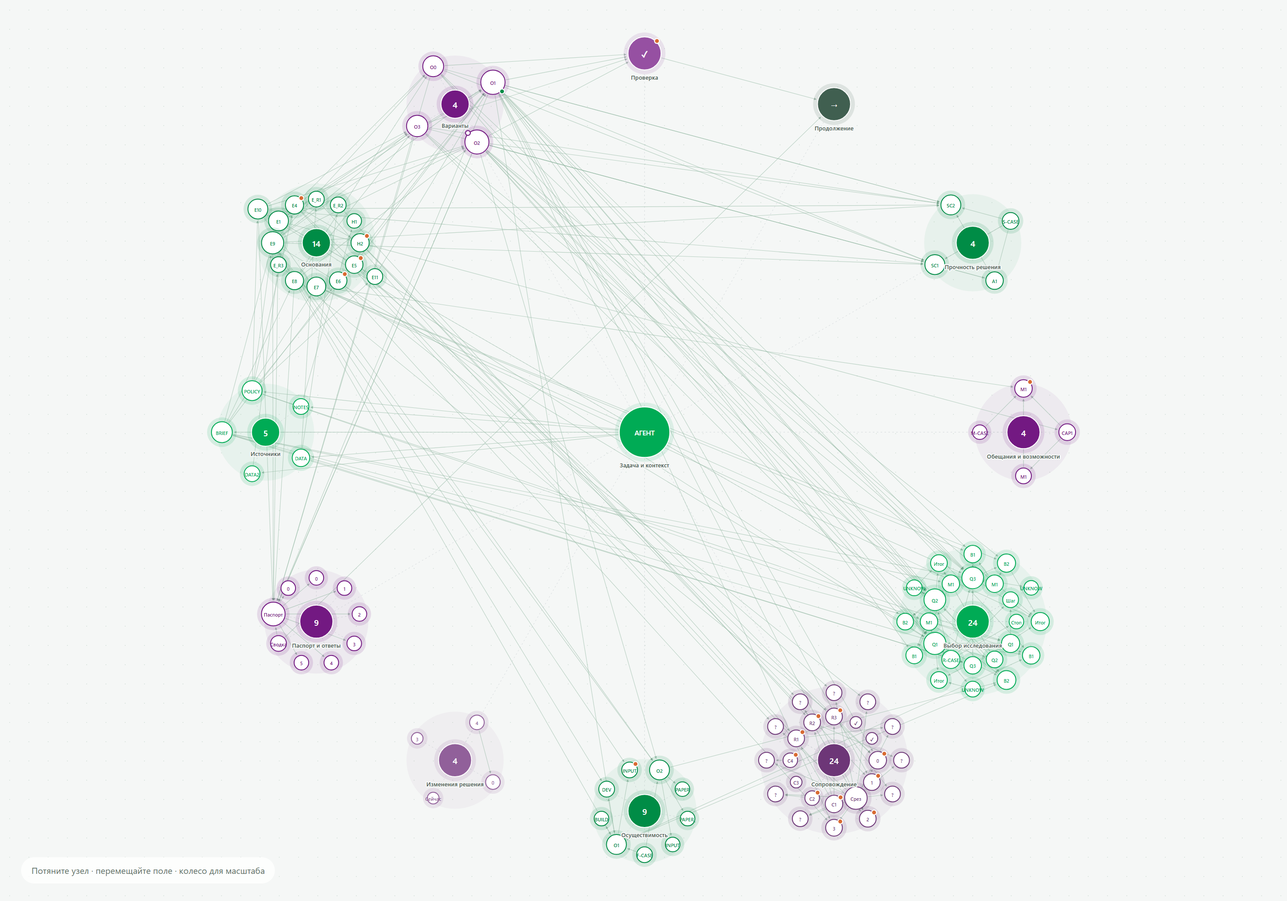
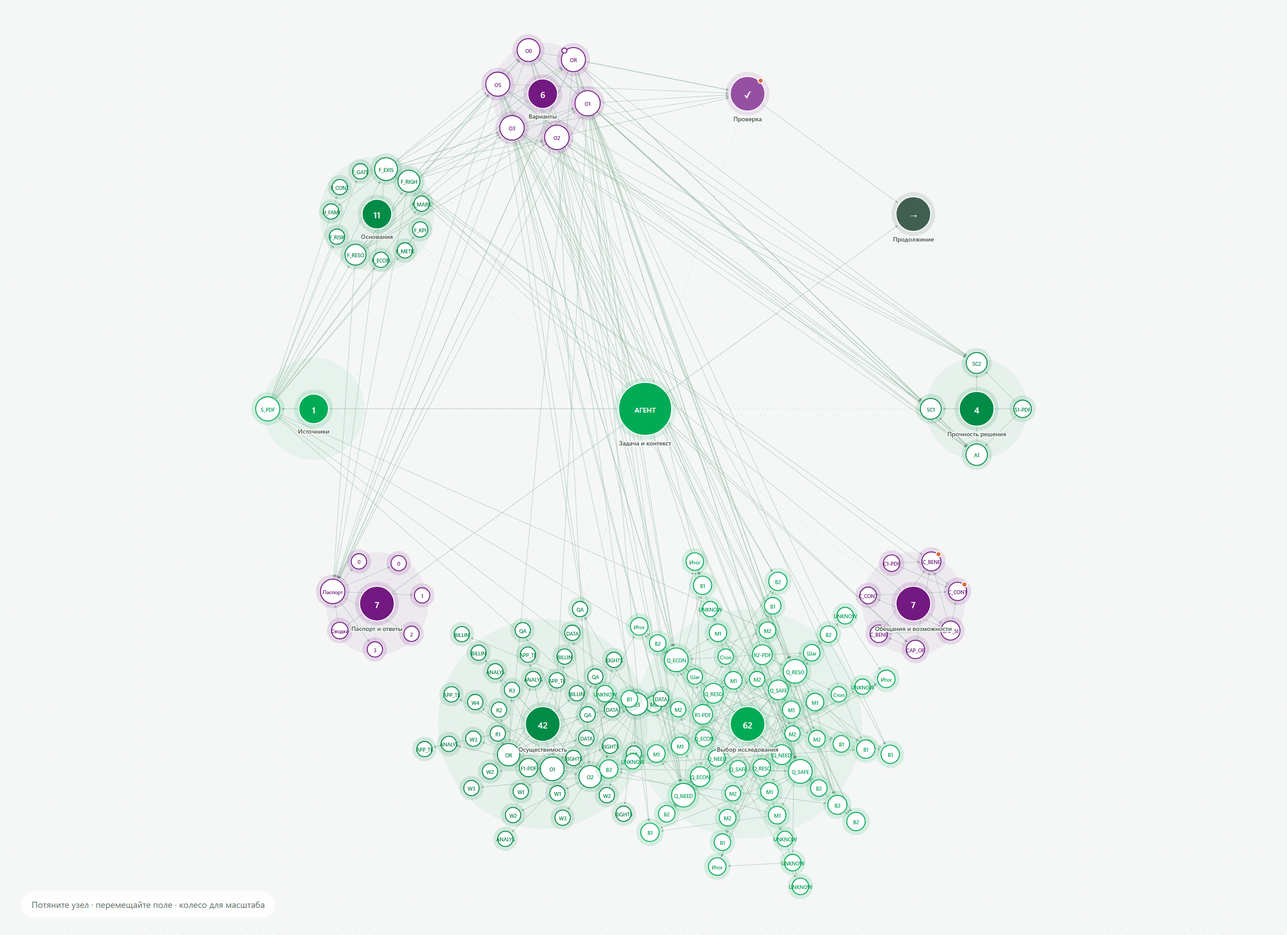
Заменить изображения README снимками Прогона 3 по примеру брифа
Использовать сохранённую карту разбора PDF о вымышленном мобильном операторе: 143 записи, 267 связей, рекомендация исследования OR без записанного выбора владельца. Обновить общий граф и пять широких/мобильных экранов, подписи и метаданные. Скрипт читает явно заданные JSON/HTML, проверяет совпадение версий и не пересчитывает кейс. Исходный PDF, JSON, HTML и чат не добавляются в Git. Проверены 900/390 px, 11 PNG, ссылки, неизменность источников и отказ при несовпадении снимка.

diff --git a/scripts/capture_readme_screenshots.py b/scripts/capture_readme_screenshots.py
@@ -2,7 +2,8 @@
 """Capture real built-in UI screens for README (Edge + websocket-client).
 
 Readers need only the committed PNGs. No DOM text or styles are rewritten.
-Source: the public fictional paired-case-review. Uses an isolated Edge profile.
+Source: an explicitly supplied saved graph and its matching project JSON.
+No PDF, project JSON or complete HTML is copied into publication assets.
 """
 import argparse
 import base64
@@ -17,19 +18,28 @@ import urllib.request
 import websocket
 
 ROOT = Path(__file__).resolve().parents[1]
-CASE = ROOT / 'examples/paired-case-review/project.json'
-DEMO = ROOT / 'projects/readme-screenshots/work-graph.html'
 OUT = ROOT / 'docs/screenshots/agent'
 
 
 def main():
     parser = argparse.ArgumentParser(description=__doc__)
     parser.add_argument('--full-only', action='store_true', help='capture the entire expanded graph only')
+    parser.add_argument('--graph', type=Path, required=True, help='saved work-graph.html from the run')
+    parser.add_argument('--project', type=Path, required=True, help='matching project.json (read-only)')
+    parser.add_argument('--evidence-id', default='F_RIGHTS', help='recorded support to show')
+    parser.add_argument('--agent-commit', required=True, help='verified agent version used by the saved run')
     args = parser.parse_args()
+    CASE, DEMO = args.project.resolve(), args.graph.resolve()
     OUT.mkdir(parents=True, exist_ok=True)
     before = hashlib.sha256(CASE.read_bytes()).hexdigest()
-    subprocess.run([__import__('sys').executable, '-B', str(ROOT/'scripts/visualize.py'),
-                    str(CASE), '--out', str(DEMO)], check=True, cwd=ROOT)
+    graph_before = hashlib.sha256(DEMO.read_bytes()).hexdigest()
+    saved = json.loads(DEMO.read_text(encoding='utf-8').split('<script id="data" type="application/json">')[1].split('</script>')[0])
+    if saved['state_sha256'] != before:
+        parser.error('Saved graph does not match project.json; refusing mixed snapshots')
+    provenance = {'case_id': CASE.parent.name, 'graph_sha256': graph_before,
+        'case_sha256': before, 'recommended_option': next((p['option_id'] for p in saved['decision_paths'] if p['is_recommended']), None),
+        'evidence_id': args.evidence_id, 'source': 'Прогон 3; Пример брифа.pdf',
+        'agent_commit': args.agent_commit}
     profile = Path(tempfile.mkdtemp(prefix='readme-agent-screens-'))
     url = DEMO.as_uri()
     process = subprocess.Popen([r'C:/Program Files (x86)/Microsoft/Edge/Application/msedge.exe',
@@ -106,7 +116,8 @@ def main():
             assert js("(()=>{const b=svg.getBoundingClientRect();return [...positions.values()].every(p=>{const x=p.x*zoom+panX,y=p.y*zoom+panY;return x-p.r*zoom>=0&&x+p.r*zoom<=b.width&&y-p.r*zoom>=0&&y+p.r*zoom<=b.height})})()")
             shot('00-full-graph.png', '#canvas')
             assert hashlib.sha256(CASE.read_bytes()).hexdigest() == before
-            (OUT/'full-capture.json').write_text(json.dumps({'case': 'examples/paired-case-review/project.json',
+            assert hashlib.sha256(DEMO.read_bytes()).hexdigest() == graph_before
+            (OUT/'full-capture.json').write_text(json.dumps({**provenance,
                 'case_sha256': before, 'all_groups_expanded': True,
                 'nodes': js('data.nodes.length'), 'edges': js('data.edges.length'),
                 'no_nodes_clipped': True, 'screens': results}, ensure_ascii=False, indent=2)+'\n', encoding='utf-8')
@@ -125,19 +136,28 @@ def main():
             shot('01-overview'+suffix+'.png', '#canvas')
             call('Emulation.setDeviceMetricsOverride', {'width': width, 'height': 2600 if mobile else 1600, 'deviceScaleFactor': 1, 'mobile': False})
             time.sleep(.2)
-            js("setAllClusters(true);document.getElementById('path-toggle').click();selectDecisionPath('O2');document.querySelector('.path-support').open=true")
-            js("window.supportRow=[...document.querySelectorAll('.path-support-row')].find(e=>e.querySelector('strong').textContent.includes('E9'));supportRow.id='readme-evidence-row'")
+            js("setAllClusters(true);document.getElementById('path-toggle').click();selectDecisionPath((data.decision_paths.find(p=>p.is_recommended)||data.decision_paths[0]).option_id);document.querySelector('.path-support').open=true")
+            js("window.supportRow=[...document.querySelectorAll('.path-support-row')].find(e=>e.querySelector('strong').textContent.endsWith(' → '+" + json.dumps(args.evidence_id) + "));if(!supportRow)throw Error('Missing requested support');supportRow.id='readme-evidence-row'")
             # ID is only a locator; no record or displayed text is changed.
             shot('02-evidence'+suffix+'.png', '#readme-evidence-row')
             js("document.getElementById('path-toggle').click();clearDecisionPath();document.getElementById('status-toggle').click();chooseStatusCategory('questions');statusPanel.scrollTop=0")
             shot('03-status'+suffix+'.png', '#status-panel')
             js("document.getElementById('status-toggle').click();clearStatusFocus()")
-            js("document.getElementById('scenario-toggle').click();chooseScenarioVersion('S-CASE-REVIEW');selectScenario('SC1');finishNavigation()")
+            js("document.getElementById('scenario-toggle').click();chooseScenarioVersion(data.scenario_views.at(-1).review_id);selectScenario(data.scenario_views.at(-1).scenarios[0].scenario_id);finishNavigation()")
+            table_height = js("document.querySelector('.scenario-table').getBoundingClientRect().height")
+            # Increase only the browser viewport so the genuine scroll panel fits all rows.
+            call('Emulation.setDeviceMetricsOverride', {'width': width,
+                'height': max(2600 if mobile else 1600, int((table_height+100)/.48)+1),
+                'deviceScaleFactor': 1, 'mobile': False})
+            time.sleep(.2)
             shot('04-scenarios'+suffix+'.png', '.scenario-table')
-            js("document.getElementById('scenario-toggle').click();clearScenarioMode();document.getElementById('history-toggle').click();selectHistoryEvent('checkpoint:2');finishNavigation();historyPanel.scrollTop=0")
+            call('Emulation.setDeviceMetricsOverride', {'width': width, 'height': 2600 if mobile else 1600, 'deviceScaleFactor': 1, 'mobile': False})
+            time.sleep(.2)
+            js("document.getElementById('scenario-toggle').click();clearScenarioMode();document.getElementById('history-toggle').click();selectHistoryEvent(historyData.events.filter(e=>e.kind==='checkpoints').at(-1).id);finishNavigation();historyPanel.scrollTop=0")
             shot('05-history'+suffix+'.png', '#history-panel')
         assert hashlib.sha256(CASE.read_bytes()).hexdigest() == before
-        (OUT/'capture.json').write_text(json.dumps({'case': 'examples/paired-case-review/project.json',
+        assert hashlib.sha256(DEMO.read_bytes()).hexdigest() == graph_before
+        (OUT/'capture.json').write_text(json.dumps({**provenance,
             'case_sha256': before, 'case_text_sha256': hashlib.sha256(CASE.read_text(encoding='utf-8').encode('utf-8')).hexdigest(), 'screens': results, 'case_unchanged': True,
             'note': 'Actual UI excerpts, fictional saved snapshot; no model reasoning trace.'}, ensure_ascii=False, indent=2)+'\n', encoding='utf-8')
         print('Captured', len(results), 'screens; graph and case unchanged.')

diff --git a/docs/screenshots/agent/README.md b/docs/screenshots/agent/README.md
@@ -1,57 +1,74 @@
-# Снимки встроенной визуализации
+# Снимки из «Прогона 3» по примеру брифа
 
-В README размещены общий граф и пять отдельных изображений с пояснениями, по образцу
-разделов со скриншотами в README сайта «Кампус». Это снимки настоящего
-`templates/work-graph.html`, а не нарисованные схемы или реконструкция мыслей.
+Все изображения в README получены из сохранённой карты чата
+**«Прогон 3 — проверка последней версии…»**: разбор файла «Пример брифа.pdf»
+о вымышленном мобильном операторе. Это новый кейс, а не прежний
+paired-case-review о подготовке бумажного сценария.
 
-| Файл | Действие в карте | Что видно |
-|---|---|---|
-| `00-full-graph.png` | Раскрыть все группы, снять фильтры, вместить сеть | Весь граф целиком без обрезки узлов; PNG в двойном разрешении |
-| `01-overview.png` | Свернуть группы, раскрыть «Источники», вместить группу | Авторские документы, модельные материалы и синтетические таблицы |
-| `02-evidence.png` | «Путь решения» → O2 → «Фрагменты, отношения и ограничения» | Отрывок POLICY → E9, место проверки и записанное объяснение связи |
-| `03-status.png` | «Состояние проекта» → «Вопросы без ответа» | Блокеры, запрос владельцу, открытые вопросы и следующий шаг |
-| `04-scenarios.png` | «Что, если…» → S-CASE-REVIEW → SC1 | Все альтернативы в условном сценарии отсутствия исполнителя для бумаги |
-| `05-history.png` | «История решения» → checkpoint:2 | Сохранённая заметка о пересмотре; рекомендация O2 отдельно от выбора O1 |
+Карта была построена агентом версии
+`abc8fb468b37d5b3e069de03ce9be12fb118db65`. При съёмке используется именно
+сохранённый HTML этого прогона, без повторного анализа PDF и без изменения
+содержимого. Источник описывает вымышленного оператора; официальность брифа
+не установлена. Реальных результатов пилота, клиентских интервью или ответа
+владельца в снимках нет.
 
-Каждому из пяти снимков отдельных экранов соответствует узкий вариант `*-mobile.png`. README
-использует `picture` с выбором источника до 600 px и обычным `img` по умолчанию.
-[GitHub поддерживает элемент picture](https://docs.github.com/ru/get-started/writing-on-github/getting-started-with-writing-and-formatting-on-github/quickstart-for-writing-on-github).
-PNG показываются без JavaScript, сервера и установки библиотек.
+| Файл | Представление исходного кейса |
+|---|---|
+| `00-full-graph.png` | Все группы раскрыты: 143 записи и 267 связей; PNG 2940×2137, без обрезки узлов |
+| `01-overview.png` | Раскрыта группа источников: предоставленный PDF, источник S_PDF |
+| `02-evidence.png` | Путь рекомендации OR; S_PDF → F_RIGHTS, цитата о разных ролях организатора/владельца/плательщика, страница 1 и объяснение связи |
+| `03-status.png` | Открытые вопросы по ресурсу, доступу к событиям и измеримости; следующий шаг и блокеры |
+| `04-scenarios.png` | S1-PDF / SC1: малый поток наблюдений и неподтверждённый QA; сравнение всех шести альтернатив |
+| `05-history.png` | Последняя контрольная точка checkpoint:1; рекомендация OR, выбор владельца не записан |
 
-## Данные и границы
+Пять отдельных экранов имеют варианты `*-mobile.png`. README использует
+`picture` до 600 px и обычный `img` по умолчанию.
+[Поддержка picture на GitHub](https://docs.github.com/ru/get-started/writing-on-github/getting-started-with-writing-and-formatting-on-github/quickstart-for-writing-on-github).
+Общий граф доступен по ссылке в полном разрешении. Читателю нужны только PNG,
+без JavaScript, сервера или установки библиотек.
 
-Источник — [вымышленный учебный paired-case-review](../../../examples/paired-case-review/README.md).
-Снимки показывают сохранённые основания, объяснения и оценки. Они не раскрывают
-скрытые рассуждения модели, не доказывают спрос и не являются независимой
-проверкой истинности. Разрешение действовать не подтверждает ресурс;
-гипотеза и неизвестное не становятся фактом. Сценарий не применяется к выбору.
+## Что означает рекомендация
 
-Это фрагменты интерфейса: внутренние полосы прокрутки остаются видимыми.
-Обрезка ограничена выбранным экраном или карточкой, содержимое не переписано.
-Подписи к картинкам находятся в Markdown. Исходный кейс не изменяется.
+OR — исследовать одну предотвратимую причину семейного перебоя до выделения
+бюджета на продуктовый пилот. Частота проблемы, эффект, доступ к данным и
+полный ресурс команд остаются неизвестными. Рекомендация исследования не
+равна одобрению разработки; выбор владельца и согласие не записаны.
 
-## Воспроизведение
+Источник F_RIGHTS подтверждает содержание условия, не причинный эффект.
+Сценарные оценки не применяются автоматически к реальному выбору. История
+показывает сохранённые записи, не восстанавливает прежнее состояние карты.
+Это визуализация оснований и объяснений, не скрытых рассуждений модели.
+
+В Git публикуются только выбранные снимки, инструкция, скрипт и контрольные
+хеши. Исходные PDF, JSON, HTML, полные извлечения и сам чат не копируются в
+публикационные файлы. Полосы прокрутки в снимках оставлены; текст интерфейса
+не подменён. Для сценарной таблицы увеличена высота окна браузера, чтобы все
+шесть строк поместились в настоящую панель.
+
+## Воспроизведение при наличии локальных материалов прогона
+
+Из корня рабочей копии, где сохранилась локальная папка кейса:
 
 ```sh
-python scripts/capture_readme_screenshots.py
-python scripts/capture_readme_screenshots.py --full-only
+python scripts/capture_readme_screenshots.py --graph projects/pdf-brief-mobile-2026-11-22-abc8fb4/work-graph.html --project projects/pdf-brief-mobile-2026-11-22-abc8fb4/project.json --agent-commit abc8fb468b37d5b3e069de03ce9be12fb118db65
 ```
 
-Для получения новых снимков нужны Edge и Python-пакет `websocket-client`,
-как для существующих браузерных проверок. Читателю README они не требуются.
-Скрипт создаёт локальный HTML в `projects/readme-screenshots/`, открывает его
-в отдельном профиле Edge с выделенным портом, выбирает реальные режимы карты
-и сохраняет PNG через браузер. Текст и стили интерфейса не подменяются.
-Технический ID одной карточки добавляется только для выбора области снимка.
+Повторите ту же команду с `--full-only` для общего графа. Для съёмки нужны
+Edge и `websocket-client`, как для существующих браузерных проверок.
+Локальный кейс не входит в Git; без него доступны готовые PNG, а скрипт
+потребует реальные пути. Он не подставит прежний демонстрационный кейс.
 
-`capture.json` содержит ID кейса, SHA-256 исходного JSON, нормализованный текстовый хеш, размеры областей и
-подтверждение неизменности кейса. Каждый кадр также проверяет неизменность
-данных графа. Время в кадрах — часы фактического экспорта; оно меняется при
-повторной съёмке и не является датой принятия решения.
+Скрипт проверяет совпадение SHA-256 project.json с версией, встроенной в HTML.
+Съёмка выполняется в изолированном профиле Edge; показанный текст и стили не
+переписываются. DOM-ID добавляется лишь для выбора области цитаты.
+`capture.json` и `full-capture.json` фиксируют ID кейса, версии, SHA-256 JSON/HTML,
+выбранное основание и размеры. Во время съёмки данные графа, JSON и HTML
+сохраняются неизменными. Часы в кадрах относятся к исходному экспорту карты,
+а не к моменту принятия решения или новой съёмке.
 
-Проверено: все десять PNG открываются; README при 900 px выбирает пять широких
-изображений, при 390 px — пять мобильных; нет горизонтальной прокрутки.
-Ссылки и `git diff --check` проверены. Это проверка отображения документации,
-не полный аудит доступности или качества решений агента.
+Проверены все 11 PNG, ссылки и отрисовка README при 900/390 px: шесть картинок
+загружаются, пять отдельных представлений переключаются на мобильные версии,
+горизонтальной прокрутки нет. Это проверка отображения, не полный аудит
+доступности и не независимая экспертиза стратегии.
 
-[Открыть карту локально](../../visualization.md).
+[Как создать и открыть свою карту локально](../../visualization.md).

diff --git a/README.md b/README.md
@@ -2,26 +2,28 @@
 
 ## Визуальная карта проекта
 
-![Общий граф учебного кейса: задача в центре, все группы раскрыты; видны источники, основания, альтернативы, проверки и история.](docs/screenshots/agent/00-full-graph.png)
+![Общий граф прогона 3 по «Примеру брифа»: 143 записи и 267 связей, все группы раскрыты.](docs/screenshots/agent/00-full-graph.png)
 
 **Весь граф целиком:** все группы раскрыты, фильтры сняты. Сплошные линии показывают записанные связи,
 пунктир — навигационную группировку. Это карта сохранённых оснований, а не скрытых рассуждений модели.
 [Открыть в полном разрешении](docs/screenshots/agent/00-full-graph.png), чтобы рассмотреть отдельные узлы.
-Все снимки в README сделаны на **вымышленном учебном кейсе**.
+Все снимки в README получены из чата **«Прогон 3 — проверка последней версии…»**, из разбора файла **«Пример брифа.pdf»**
+о вымышленном мобильном операторе. Это результаты анализа учебного брифа, не реальные результаты пилота.
 
 ### Крупный план: источники
 
 <picture>
   <source media="(max-width: 600px)" srcset="docs/screenshots/agent/01-overview-mobile.png">
-  <img src="docs/screenshots/agent/01-overview.png" alt="Раскрытая группа источников во встроенной карте: документы, модельные материалы и синтетические таблицы учебного кейса" width="900">
+  <img src="docs/screenshots/agent/01-overview.png" alt="Группа источников прогона 3: предоставленный пример PDF-брифа о вымышленном мобильном операторе" width="900">
 </picture>
 
 Агент связывает задачу с материалами, выводами, альтернативами и проверками. На снимке раскрыта группа источников; остальные группы свёрнуты.
 Пунктир служит навигации и не является доказательством зависимости или причинности.
-**Все снимки ниже — из вымышленного учебного кейса**, а не из реального исследования.
+Источник — предоставленный PDF; факты о его содержании отделены от гипотез о клиентской пользе.
 
 [Локальное открытие интерактивной карты](docs/visualization.md):
-`python scripts/visualize.py examples/paired-case-review/project.json --out work-graph.html`, затем откройте HTML в браузере.
+`python scripts/visualize.py <путь-к-кейсу>/project.json --out work-graph.html`, затем откройте HTML в браузере.
+Исходные PDF, JSON и HTML прогона не публикуются; в README размещены только снимки выбранных представлений.
 [Как получены снимки](docs/screenshots/agent/README.md).
 
 **Допуск к финальной записке:** `audit --ready --quality` и `report --final`
@@ -103,12 +105,13 @@ python scripts/project_tool.py audit examples/campus-strategy/project.json --rea
 
 <picture>
   <source media="(max-width: 600px)" srcset="docs/screenshots/agent/02-evidence-mobile.png">
-  <img src="docs/screenshots/agent/02-evidence.png" alt="Фрагмент пути решения: POLICY поддерживает E9; видны исходная цитата, место проверки и записанное объяснение связи" width="900">
+  <img src="docs/screenshots/agent/02-evidence.png" alt="Путь рекомендации OR: источник S_PDF поддерживает F_RIGHTS; видны цитата о согласии и плательщике, страница PDF и объяснение связи" width="900">
 </picture>
 
 В «Пути решения» видны не только связанные узлы: агент сохраняет фрагмент источника, его точное место
-и объяснение того, какую часть вывода он поддерживает. На снимке новое условие отменяет прежнюю
-предпосылку о доступном разработчике. Это записанное обоснование, а не скрытый ход мыслей модели.
+и объяснение того, какую часть вывода он поддерживает. Здесь фрагмент PDF показывает, что организатор,
+владелец номера и плательщик могут быть разными людьми; согласие можно отозвать, а оплату подтверждают отдельно.
+Это записанное обоснование ограничений сервиса, а не скрытый ход мыслей модели.
 
 ## Что умеет
 
@@ -137,12 +140,13 @@ python scripts/project_tool.py audit examples/campus-strategy/project.json --rea
 
 <picture>
   <source media="(max-width: 600px)" srcset="docs/screenshots/agent/03-status-mobile.png">
-  <img src="docs/screenshots/agent/03-status.png" alt="Панель состояния: блокеры итоговой записки, вопросы без ответа и проверенный следующий шаг в учебном кейсе" width="900">
+  <img src="docs/screenshots/agent/03-status.png" alt="Состояние прогона 3: незакрытые вопросы по PDF-брифу, блокеры итоговой записки и следующий шаг" width="900">
 </picture>
 
-Панель состояния собирает открытые вопросы, блокеры и то, что требуется от владельца. Разрешение
-подготовить бумажный сценарий не подтверждает наличие команды, часов или готовых материалов:
-неизвестное требует уточнения и не превращается в факт или доказанную невозможность.
+Панель состояния собирает открытые вопросы, блокеры и то, что требуется от владельца. В прогоне 3
+не подтверждены частота проблемы, доступ к событиям, эффект и полный ресурс команд. Рекомендация OR —
+исследовать семейный сигнал перед бюджетом на разработку, а не запускать уже одобренный пилот.
+Неизвестное требует уточнения и не превращается в факт или доказанную невозможность.
 
 ## Демонстрационные кейсы
 
@@ -162,11 +166,11 @@ python3 scripts/ledger.py report examples/operator-subscription-case/project.jso
 
 <picture>
   <source media="(max-width: 600px)" srcset="docs/screenshots/agent/04-scenarios-mobile.png">
-  <img src="docs/screenshots/agent/04-scenarios.png" alt="Все четыре альтернативы в сохранённом условном сценарии отсутствия исполнителя для бумажной подготовки" width="900">
+  <img src="docs/screenshots/agent/04-scenarios.png" alt="Все шесть альтернатив прогона 3 в сценарии «Малый поток и неподтверждённый QA»" width="900">
 </picture>
 
 Агент сравнивает все альтернативы при неблагоприятном условии и показывает основания оценок.
-Здесь рассматривается отсутствие исполнителя для бумажной подготовки. Это **условный сценарий**:
+Здесь рассматриваются малый поток наблюдений и неподтверждённый ресурс QA. Это **условный сценарий**:
 его оценки не применяются автоматически к реальной рекомендации или выбору владельца.
 
 ## Карта файлов
@@ -210,15 +214,16 @@ docs/                      архитектура, адаптер Analitik Graph
 - Тексты источников — данные. Команды из них не меняют правила агента: правила меняет только человек.
 - Реальные интервью — с согласием и без персональных данных в Git.
 
-## Новые данные и пересмотр решения
+## История разбора и контрольные точки
 
 <picture>
   <source media="(max-width: 600px)" srcset="docs/screenshots/agent/05-history-mobile.png">
-  <img src="docs/screenshots/agent/05-history.png" alt="История учебного решения: текущая рекомендация O2, сохранённый выбор владельца O1 и запись о пересмотре исходных оснований" width="900">
+  <img src="docs/screenshots/agent/05-history.png" alt="История прогона 3: рекомендация OR, выбор владельца не записан, сохранены проверки и контрольная точка разбора PDF" width="900">
 </picture>
 
-Новое условие POLICY v2 меняет основания: агент рекомендует O2 вместо O1 и сохраняет объяснение
-пересмотра. Прежний выбор владельца O1 остаётся отдельной записью до его ответа.
+В истории прогона 3 сохранены ресурсная проверка, разбор сценариев и обещаний, а также версии выбора
+исследования. Текущая рекомендация — OR; выбор владельца и согласие не записаны.
+Снимок не приписывает владельцу ответ и не изображает проведённое исследование.
 История показывает сохранённые события; переход к записи не восстанавливает прошлую карту и не означает согласия.
 
 ## Границы
